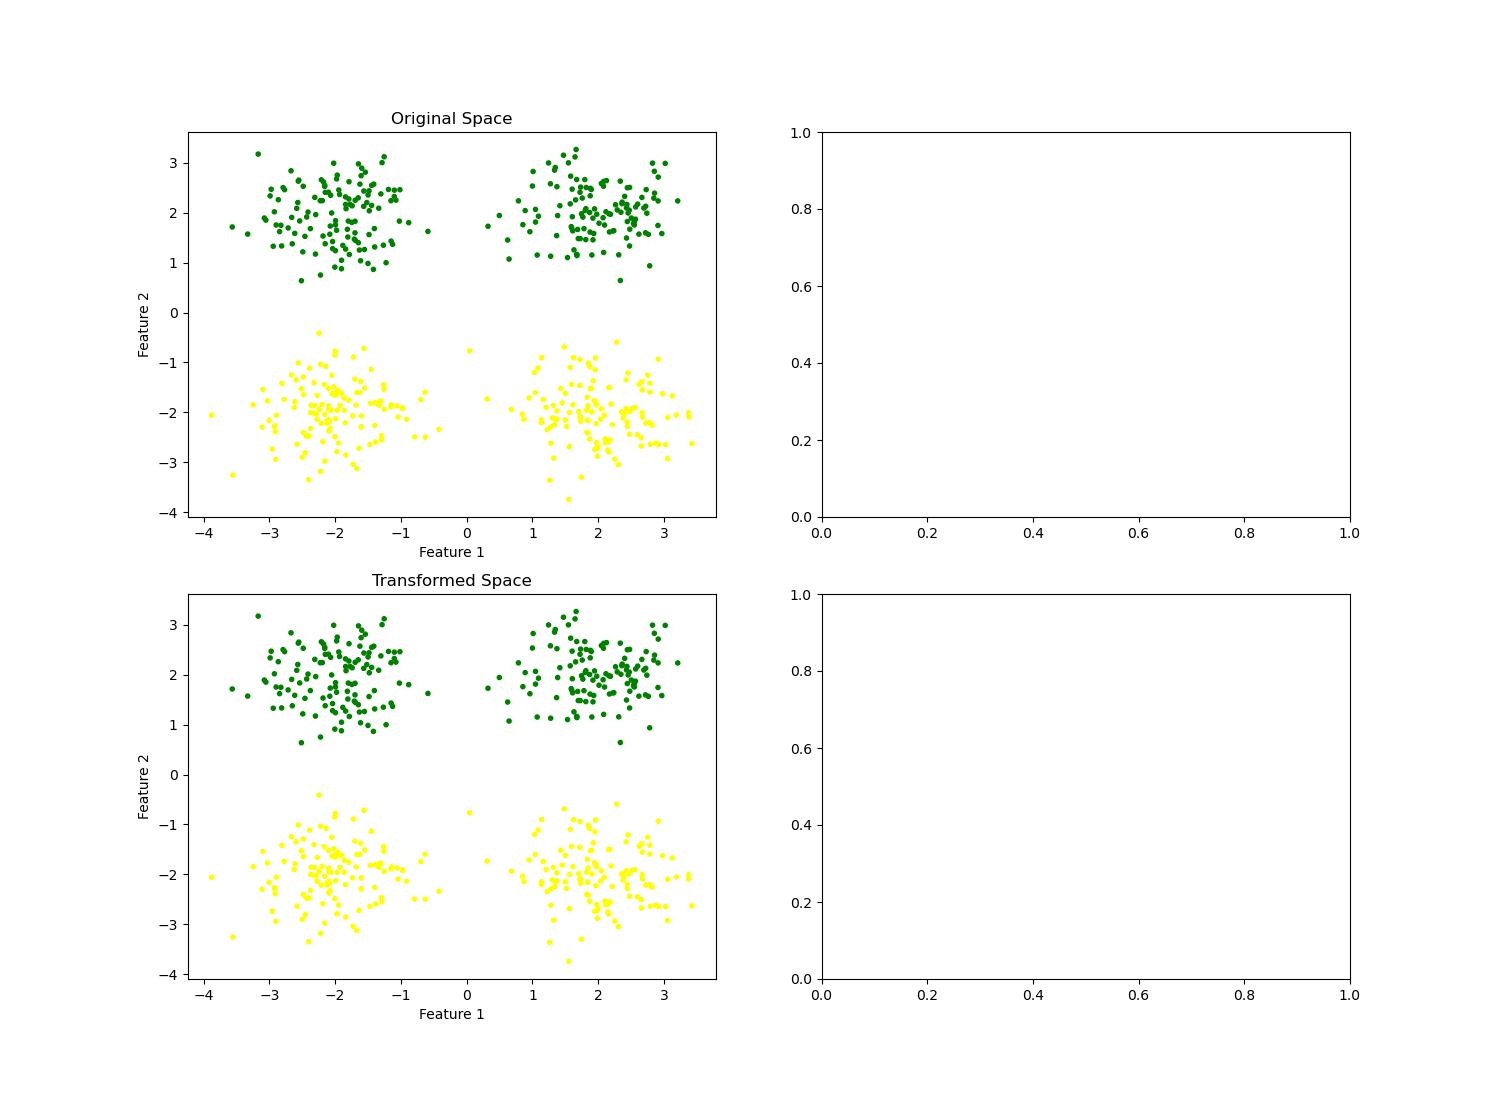
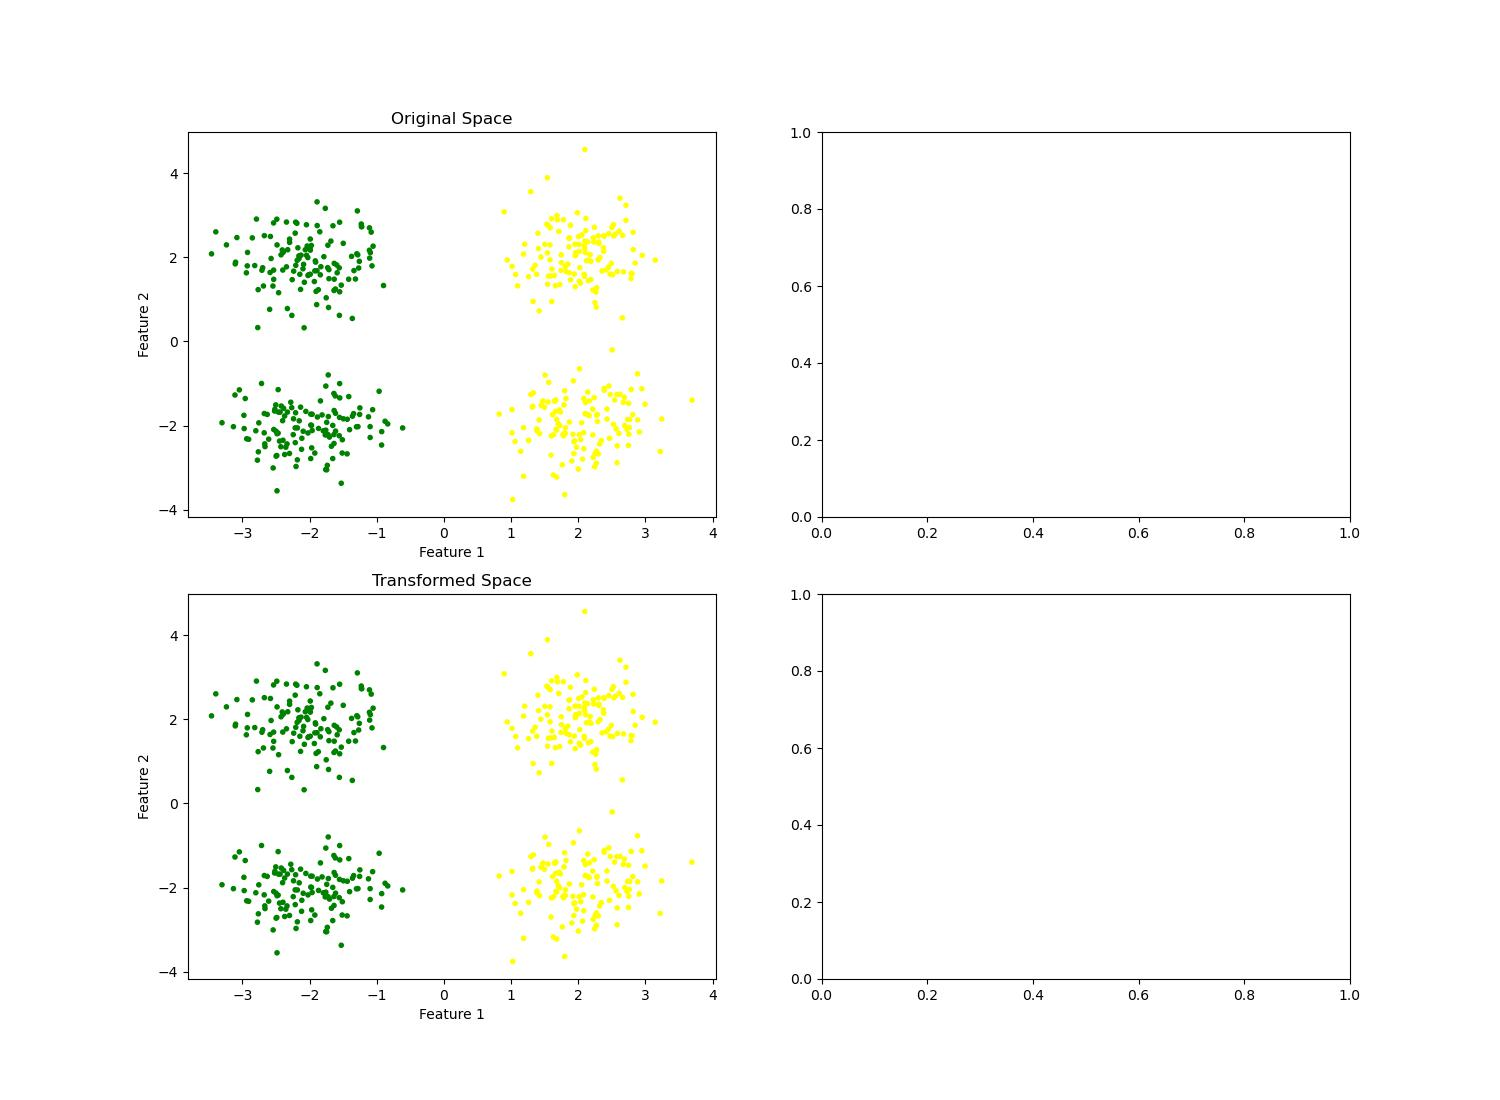
updates

diff --git a/MultiViewClusteringViaOrthogonalization/main_multiview.py b/MultiViewClusteringViaOrthogonalization/main_multiview.py
@@ -163,16 +163,16 @@ def mView_Clustering_via_Orthogonalization(DATA, alternatives, k, datatype):
 			u = np.array(u).reshape(len(u),1)										# reshape u to a vector column
 			uuT = np.dot(u,u.T)														# it returnes a [2×2] matirx ([2×1]*[1×2])
 			uTu = np.dot(u.T,u)														# it returnes a scalar ([1×2]*[2×1]=[1×1] matrix)
-			M   = np.identity(len(x)) - uuT / uTu									# the transformation matrix
-			X[i]= (M).dot(x) 														# the transformation matrix dot product a vector (vector column) or
+			I   = np.identity(len(x))
+			X[i]= (I - uuT / uTu).dot(x) 											# the transformation matrix dot product vector x (vector column) or
 			#X[i]= M * np.array(x).T 												# transformation matrix mltiplied by the transpose of vector x
 			
 # ========================================================================
 
 alternatives = 5 
 
-DATA, k, datatype, imRow, imCol, imDim = generate_data(type= 'image') 				# 'image'
-#DATA, k, datatype  = generate_data(type= '4-3-2') 									# '2-2-3', '4-3-2'
+#DATA, k, datatype, imRow, imCol, imDim = generate_data(type= 'image') 				# 'image'
+DATA, k, datatype  = generate_data(type= '4-3-2') 									# '2-2-3', '4-3-2'
 
 
 mView_Clustering_via_Orthogonalization(DATA, alternatives, k, datatype)

diff --git a/PrincipledFlexibleFrameworkForFindingAlternativeClusterings/main_principled.py b/PrincipledFlexibleFrameworkForFindingAlternativeClusterings/main_principled.py
@@ -176,8 +176,8 @@ def princ_flex_framework_AlternativeClustering(DATA, a, alternatives, k, datatyp
 alternatives = 5
 a = 2
 
-#DATA, k, datatype  = generate_data(type= '2-2-4') 						# '2-2-4', '4-3-2'
-DATA, k, datatype, imRow, imCol, imDim = generate_data(type= 'image') 	# 'image'
+DATA, k, datatype  = generate_data(type= '2-2-3') 						# '2-2-3', '4-3-2'
+#DATA, k, datatype, imRow, imCol, imDim = generate_data(type= 'image') 	# 'image'
 
 princ_flex_framework_AlternativeClustering(DATA, a, alternatives, k, datatype)
 
